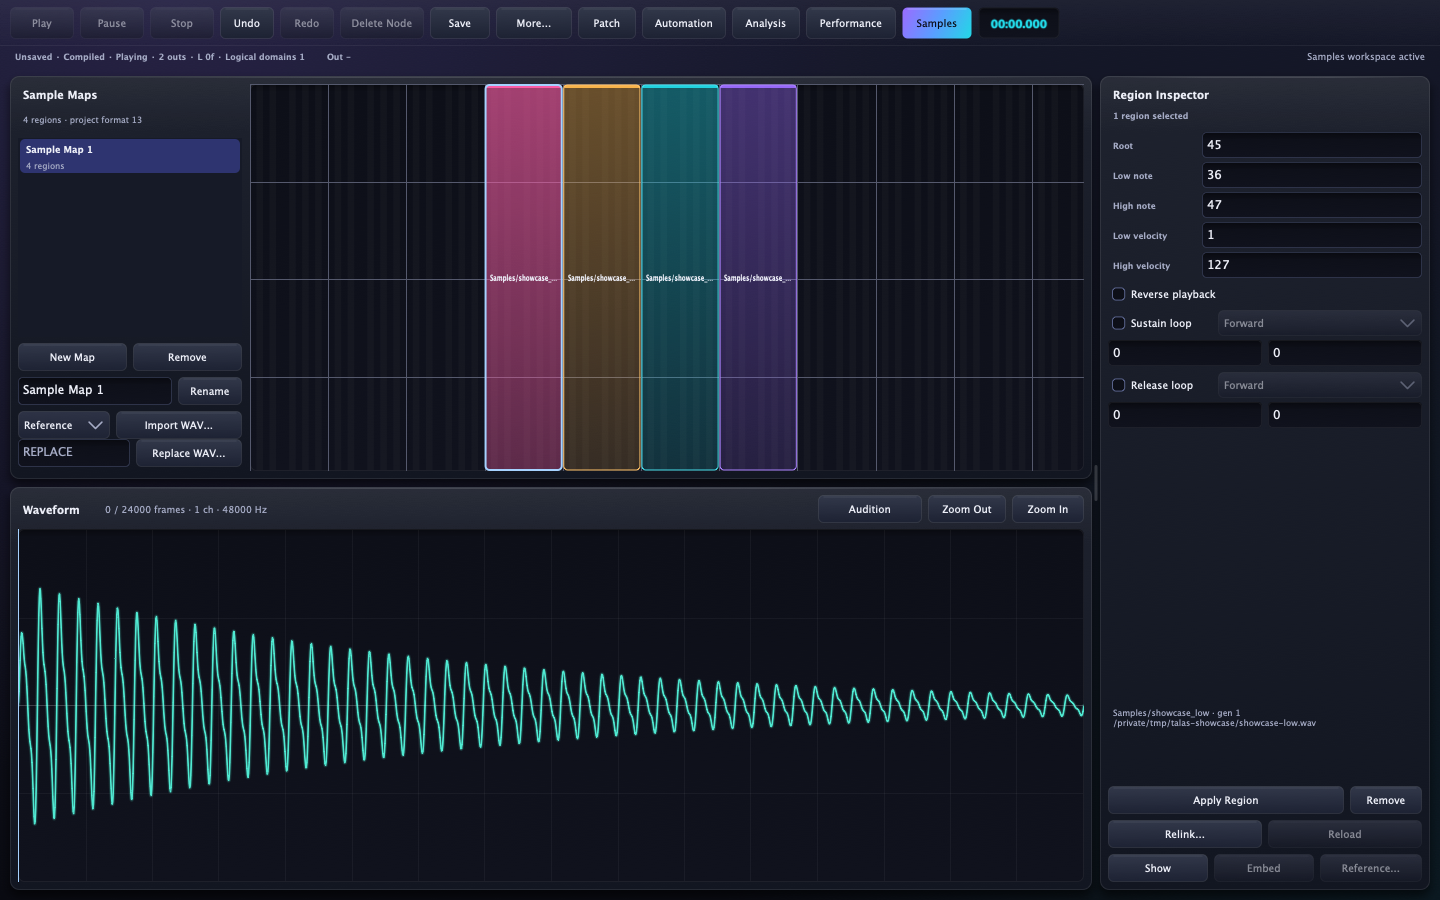
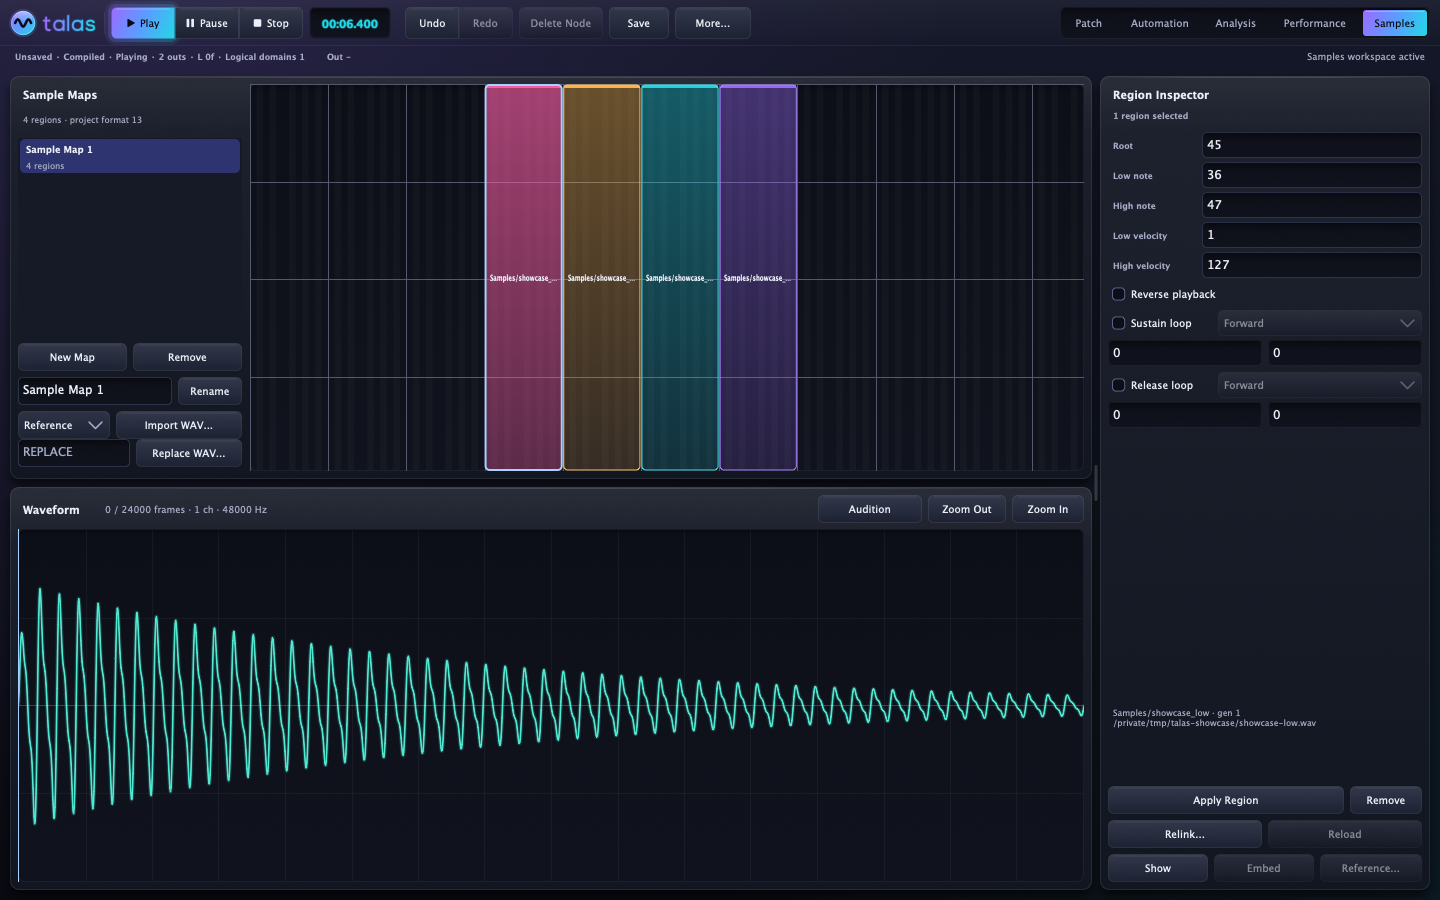
Show the second polish pass in the screenshots and DESIGN.md
The README gallery grows to Performance, Live Grid, Timeline, Analysis,
Samples and the plugin editor, all rendered by --render-screenshots and
each under 600 KB; Plugin export shows the editor. DESIGN.md records the
toolbar, segmented controls, knobs, pads, Performance cards, Live Grid
clips, support pills, alerts and dialogs, and the plugin editor; the
reference lists the new talas-view-*.png renders.

Changed region(s): [[0.0, 0.0, 1.0, 0.0622]]

diff --git a/DESIGN.md b/DESIGN.md
@@ -124,15 +124,50 @@ components:
     width: "200px"
     height: "64px"
   support-badge-full:
-    backgroundColor: "{colors.runtime-green}"
-    textColor: "#ffffff"
-    rounded: "{rounded.field}"
-    height: "18px"
-    width: "72px"
+    backgroundColor: "rgba(22, 128, 90, 0.24)"
+    textColor: "#5ca68c"
+    rounded: "{rounded.pill}"
+    height: "16px"
+  transport-group:
+    backgroundColor: "{colors.raised-surface}"
+    textColor: "{colors.reading-frost}"
+    rounded: "{rounded.control}"
+    height: "32px"
+    width: "3 × 64px, connected"
+  transport-play-lit:
+    background: "{gradients.signature}"
+    textColor: "{colors.accent-ink}"
+    rounded: "{rounded.control}"
   transport-readout:
     backgroundColor: "{colors.well}"
     textColor: "{colors.talas-aqua}"
     rounded: "{rounded.control}"
+  segmented-control:
+    backgroundColor: "{colors.well}"
+    textColor: "{colors.muted-steel}"
+    rounded: "{rounded.tile}"
+  segment-on:
+    background: "{gradients.signature}"
+    textColor: "{colors.accent-ink}"
+    rounded: "{rounded.field}"
+  knob:
+    track: "{colors.well}"
+    arc: "{gradients.signature}"
+    cap: "linear-gradient(180deg, #323a57 0%, #151a29 100%)"
+    pointer: "{colors.reading-frost}"
+  pad-on:
+    background: "{gradients.signature}"
+    textColor: "{colors.accent-ink}"
+    rounded: "8px"
+  performance-card:
+    backgroundColor: "{colors.control-tile}"
+    rounded: "{rounded.card}"
+    width: "172px"
+    height: "128px"
+  live-grid-cell:
+    rounded: "{rounded.tile}"
+    width: "112px"
+    height: "60px"
 ---
 
 # Design System: Talas Workbench
@@ -224,8 +259,10 @@ colours on every card.
 
 - **Fault Coral** (`#ff5d6e`): diagnostics, error borders and badges.
 - **Runtime Green** (`#16805a`), **Subset Ochre** (`#9a6410`), **Placeholder
-  Rose** (`#c2475a`), **Utility Slate** (`#56709a`): the support badges, each
-  dark enough for white microtype at `4.5:1`.
+  Rose** (`#c2475a`), **Utility Slate** (`#56709a`): the support pills. Each
+  pill is a tint of its colour with a fine edge, its word written in the
+  colour's own tone, lightened until it reads at `4.5:1` or better on the
+  tinted pill (`WorkbenchStyle::readableToneOf`).
 
 **The Signal Is Semantics Rule.** The port-kind colours mean a port kind and
 the category colours mean a category; neither is a free decorative accent.
@@ -319,8 +356,9 @@ shadow along their top. Raised controls and tiles get a gentler version of the
 glass gradient and highlight.
 
 Glow is reserved for signal: cables, scope and spectrum traces, waveform and
-automation lines, the time cursor, the selected node and lit Live Grid cells
-carry a soft halo in their own colour. Surfaces themselves never glow.
+automation lines, the time cursor, the selected node, a knob's value arc, the
+running transport's Play button and the playing Live Grid cell carry a soft
+halo in their own colour. Surfaces themselves never glow.
 
 **The Enhanced Contrast Rule.** With Enhanced Contrast on, sheen, glows,
 backdrop glows and translucency are dropped: panels become solid with a
@@ -345,6 +383,21 @@ Event/Note, hexagon for Data. Diagnostic badges remain `14px` circles.
 Components should feel compact and tactile: native controls seated in lit
 glass.
 
+### Toolbar
+
+Left to right: the **Talas mark** (a wave cut across a lit glass roundel in
+the signature gradient) and the `talas` wordmark, both drawn as vector paths;
+a hairline; the **transport group**, Play, Pause and Stop as one row of
+connected buttons, each with its drawn glyph (▶, ❚❚, ■) before its written
+label, then the LCD time readout; the **edit actions** (Undo and Redo
+connected, Delete Node, Save, More...); and, at the right, the **workspace
+switcher**, a segmented control. While the transport runs, Play is lit: the
+signature gradient, ink glyph and label, and a soft halo the toolbar paints
+around it. Play stays lit even though it cannot be pressed again, and the
+status line still says `Playing`. The brand takes only the room the groups
+leave: it shrinks to its mark, then steps aside, before any control is
+crowded.
+
 ### Buttons
 
 - **Shape:** `5px` radius, a raised gradient around Raised Surface, a top
@@ -354,13 +407,23 @@ glass.
 - **Hover / Press:** hover lifts the fill and edge; press darkens. Disabled
   controls keep their shape at about half opacity.
 - **Focus:** keyboard focus adds a Selection Frost outline of at least `2px`.
-- **Own colours:** a button that sets its own colour (a support badge, the
-  Timeline's Cache button) keeps it, with the same gradient and edge.
+- **Own colours:** a button that sets its own colour (the Timeline's Cache
+  button) keeps it, with the same gradient and edge.
+- **Segmented controls:** the workspace switcher, the Inspector's Node /
+  Variables / Generators and the Performance panel's Controls / Snapshots /
+  Live Grid sit as segments over one recessed tray; the chosen segment is a
+  gradient pill inset in it with Accent Ink text, the others Muted Steel text
+  that brightens on hover.
 
 ### Chips
 
-- **Support badges:** `72 × 18px`, white bold microtype on the status fill,
-  `4px` radius, growing from a one-letter capsule as the library widens.
+- **Support pills:** `16px` tall, the level's word (`FULL`, `SUBSET`,
+  `PLACEHOLDER`, `UTILITY`) in bold microtype; a row whose name would not fit
+  beside the word shows its initial in a `20px` capsule instead, and the
+  word stays in the row's accessible description and tooltip.
+- **Kind pills:** Performance cards tag their kind (`FADER`, `KNOB`, `GATE`,
+  `TOGGLE`, `MACRO`) in a pill of the card's colour; the plugin editor tags
+  `INSTRUMENT` or `EFFECT`.
 - **Severity pills:** Diagnostics rows tag `INFO`, `WARNING` and `ERROR` in
   pills tinted with Data Periwinkle, Control Amber and Fault Coral.
 
@@ -370,9 +433,24 @@ glass.
   after a short vertical signature-gradient bar.
 - **Graph canvas:** a rounded well, lit slightly toward its middle, with a dot
   grid (a larger dot every fourth point).
-- **Tiles:** Event Value, meter and Live Grid tiles use Control Tile with a
-  gradient cap in their kind's colour; selected tiles add the focus outline
-  and halo.
+- **Tiles:** Event Value and meter tiles use Control Tile with a gradient cap
+  in their kind's colour (amber faders, pink gates, blue toggles); selected
+  tiles add the focus outline and halo.
+- **Performance cards:** `172 × 128px` (`84px` compact) on the canvas. The
+  name and the kind pill on top; a continuous control (fader, knob or macro)
+  turns as a knob as tall as the card allows, beside its value as a large
+  tabular readout over its unit (`Hz`, `seconds`, `note`, `samples` or
+  `scalar`); a gate or toggle is a pad across the card. The mapping state
+  (`Unmapped`, `MIDI`, `OSC in`, ...) and `LOCK` run along the bottom.
+  Controls without a position of their own flow in rows as wide as the
+  canvas shows; positioned ones stay where they were put.
+- **Live Grid cells:** `112 × 60px` clips filled with what they launch (a
+  Sound violet, a snapshot aqua, a Score region pink, a stop red). A ready
+  cell is a deep fill with a quiet launch glyph; the playing cell is the
+  bright colour with a halo, a solid ▶ and ink text; a queued cell has a
+  dashed edge and an open ▷; unavailable cells fade. The name and the state
+  are always written, in Reading Frost or Accent Ink, whichever reads on the
+  fill.
 - **Lists:** selected rows are rounded Selected Row fills.
 
 ### Inputs / Fields
@@ -382,16 +460,35 @@ glass.
 - **Focus:** an editable field draws a Selection Frost outline (at least
   `2px`) with a soft halo; with Enhanced Contrast, the outline alone.
 - **Sliders:** a recessed track, its filled part in the gradient, and a bright
-  thumb with a violet ring and soft glow. Rotary controls draw a recessed ring
-  and a gradient value arc.
+  thumb with a violet ring and soft glow.
+- **Knobs:** every rotary control turns through one recipe
+  (`WorkbenchStyle::paintKnob`): a recessed track ring from seven o'clock to
+  five, the value's arc in the gradient with a soft halo, a raised cap with a
+  glassy sheen and a Reading Frost pointer, and a bright tip riding the arc
+  at the value. The Performance cards, the Event Values strip (its default
+  widget, a knob over its number), pots on the Virtual Control Surface and
+  the plugin editor all use it. A readout under a knob can be the lit LCD.
+- **Pads:** gates and toggles on the Performance canvas and in the plugin
+  editor are pads: a recessed well with a dark lamp while off; the gradient,
+  a sheen and a lit lamp while on; the state (`Open`/`Closed`, `On`/`Off`,
+  `Held`/`Hold`) written inside. A gate is on while held, a toggle flips on
+  each press, and Space or Return presses them from the keyboard.
 - **Popup menus:** a dark glass list; the highlighted item fills with the
-  gradient and Accent Ink text.
+  gradient and Accent Ink text; ticks are Talas Aqua.
 - **Fly-by help:** stays a yellow box with dark text, now rounded and lit.
+- **Alerts and dialogs:** an alert is a glass panel over the backdrop with a
+  gradient line along its top and its kind in a lit roundel (information and
+  questions in the gradient, a warning in amber, the symbol written inside).
+  Dialog and tool windows in the theme's surface colour (Audio & MIDI
+  Settings, Export Plugin, Sound help) fill with the backdrop; their sections
+  sit on glass cards. Level meters are recessed wells lit segment by segment
+  from Signal Aqua through amber to coral.
 
 ### Navigation
 
-The toolbar is a compact horizontal rail for transport, frequent edits, Save,
-workspace modes, persistent project/compile/transport state, and overflow.
+The toolbar is a compact horizontal rail for the brand, transport, frequent
+edits, Save, overflow and workspace modes, with persistent
+project/compile/transport state in the status line below it.
 Native File, Edit, Transport, View, and Help menus carry the complete command
 set and standard shortcuts; compact mode moves edit actions out of the rail
 without removing them. Patch, Automation, Analysis, Performance and Samples
@@ -447,6 +544,16 @@ maps tint each region in a cycling gradient colour over faint black-key
 columns, and waveforms glow in Signal Aqua. The transport time is an LCD-like
 readout in Talas Aqua.
 
+### Plugin editor
+
+An exported plugin's editor (`TalasPluginEditorView`, shared with the
+Workbench's screenshots) is the Workbench in miniature: the backdrop; a
+glass header with the Talas mark, the plugin's name in the gradient over its
+maker, kind and version, and a kind pill; a glass body of tiles capped with
+the gradient, a knob with a lit LCD readout per fader and a pad per toggle
+or gate; and a status line led by a lamp (mint while the project plays,
+coral when it cannot, gray while it loads), its words always written.
+
 ## Do's and Don'ts
 
 ### Do:
@@ -472,6 +579,7 @@ readout in Talas Aqua.
   to signals.
 - **Don't** use the gradient or a signal colour merely to make a region feel
   more colourful.
-- **Don't** replace dense operational labels with unlabeled icon-only controls.
+- **Don't** replace dense operational labels with unlabeled icon-only controls:
+  a glyph goes before its label, never instead of it.
 - **Don't** invent a display typeface, oversized headline tier, or marketing
   composition inside the Workbench.

diff --git a/docs/workbench-and-cli-reference.md b/docs/workbench-and-cli-reference.md
@@ -400,7 +400,18 @@ stages and plays the project offline for a moment so meters, controls and
 traces show live values, then writes one PNG per main view into the directory:
 `talas-patch.png`, `talas-performance.png` (Performance with Snapshots),
 `talas-live-grid.png`, `talas-timeline.png`, `talas-samples.png` and
-`talas-analysis.png`. It prints `WORKBENCH_SCREENSHOTS_OK` and exits with 0, or
+`talas-analysis.png`. The screenshots picture a session whose audio device
+runs, so the transport's buttons are enabled as they would be, but no device
+is opened. It then renders the views beyond the workspaces, each drawn through
+the Workbench's look and feel as the live window draws it:
+`talas-view-menus.png` (popup menus), `talas-view-help-and-alerts.png`
+(fly-by help, an information alert and a warning), `talas-view-controls.png`
+(tabs, progress bars, buttons, toggles, fields, sliders, knobs, pads, pills
+and the brand), `talas-view-audio-midi-settings.png` (with a stand-in device
+type), `talas-view-export-plugin.png`, `talas-view-plugin-editor.png` (the
+exported plugin's editor for the showcase project) and
+`talas-view-enhanced-contrast.png` (Performance with Enhanced Contrast on).
+It prints `WORKBENCH_SCREENSHOTS_OK` and exits with 0, or
 prints `WORKBENCH_SCREENSHOTS_FAILED: <reason>` and exits with 1. The directory
 follows the smoke-test rules: absolute, existing, and not a repository root.
 The run's own state and the showcase samples live in a scratch folder that is
@@ -418,8 +429,14 @@ displays; and one violet-to-aqua signature gradient for toggled-on buttons,
 ticked boxes, slider fills and panel titles. Port kinds keep their colours
 (Audio aqua, Control amber, Event pink, Data periwinkle) next to their written
 `A`/`C`/`E`/`D` codes, and each Sound category has a colour code shared by the
-signal-flow cards and the Prototypes list. Cables, traces, waveforms and
-meters glow in their own colours. Keyboard focus keeps a light-blue outline of
+signal-flow cards and the Prototypes list. Every rotary control turns through
+one knob recipe (a gradient value arc over a recessed ring, a glassy cap and a
+lit pointer); gates and toggles on the Performance canvas and in the plugin
+editor are pads with their state written in; the toolbar carries the Talas
+mark, a transport group with drawn glyphs before its labels and a segmented
+workspace switcher. Cables, traces, waveforms, meters, knob arcs, the running
+Play button and the playing Live Grid cell glow in their own colours. Keyboard
+focus keeps a light-blue outline of
 at least two pixels. With Enhanced Contrast on, glass, glows and translucency
 give way to solid fills and strong outlines.
 

diff --git a/README.md b/README.md
@@ -58,13 +58,19 @@ files without a GUI.
 
 ## Screenshots
 
-| Timeline | Live Grid | Samples |
+| Performance | Live Grid | Timeline |
 | --- | --- | --- |
-| [![The Timeline: tracks of coloured clips under Intro, Build and Drop markers, with an automation lane and its editor](docs/images/talas-timeline.png)](docs/images/talas-timeline.png) | [![Performance with the Live Grid: control tiles beside a grid of Sound, snapshot and Score cells, one of them active](docs/images/talas-live-grid.png)](docs/images/talas-live-grid.png) | [![The Samples workspace: a sample map of four regions an octave apart above the selected region's waveform](docs/images/talas-samples.png)](docs/images/talas-samples.png) |
+| [![The Performance workspace: knob cards for Tone, Rate, Resonance and Feedback, each with its value and unit, and a lit Gate pad, beside a snapshot bank](docs/images/talas-performance.png)](docs/images/talas-performance.png) | [![Performance with the Live Grid: knob cards beside a grid of clip-like Sound, snapshot and Score cells, one playing and one queued](docs/images/talas-live-grid.png)](docs/images/talas-live-grid.png) | [![The Timeline: tracks of coloured clips under Intro, Build and Drop markers, the playhead in the Drop, with an automation lane and its editor](docs/images/talas-timeline.png)](docs/images/talas-timeline.png) |
+
+| Analysis | Samples | Plugin editor |
+| --- | --- | --- |
+| [![The Analysis workspace: a partial-track spectrum beside two pinned scope traces](docs/images/talas-analysis.png)](docs/images/talas-analysis.png) | [![The Samples workspace: a sample map of four regions an octave apart above the selected region's waveform](docs/images/talas-samples.png)](docs/images/talas-samples.png) | [![An exported plugin's editor: the Talas mark and the plugin's name, four knobs with lit readouts and a Gate pad](docs/images/talas-plugin-editor.png)](docs/images/talas-plugin-editor.png) |
 
 These are made by `talas_workbench --render-screenshots <folder>`, which lays
 the Workbench out around a built-in showcase project without opening audio or
-MIDI devices; see the [Workbench and CLI reference](docs/workbench-and-cli-reference.md#screenshots).
+MIDI devices, and also renders its menus, alerts, dialogs, common controls and
+the plugin editor for review; see the
+[Workbench and CLI reference](docs/workbench-and-cli-reference.md#screenshots).
 
 ## Roadmap
 

diff --git a/docs/plugin-export.md b/docs/plugin-export.md
@@ -22,6 +22,11 @@ Each export is a `<Name>.vst3` bundle and, on macOS, a `<Name>.component`
 (AU) bundle. Both play the project in the same realtime engine as the
 Workbench's Play button.
 
+The plugin's editor wears the Workbench's look: a knob with a lit readout for
+each fader, a pad for each toggle or gate, and the engine's status below.
+
+![The editor of a plugin exported from the Talas showcase project: the Talas mark and the plugin's name over its maker, kind and version, knobs for Tone, Rate, Resonance and Feedback with lit readouts, a Gate pad, and the status "Playing at 48.0 kHz"](images/talas-plugin-editor.png)
+
 ## Exporting
 
 ### From the Workbench
